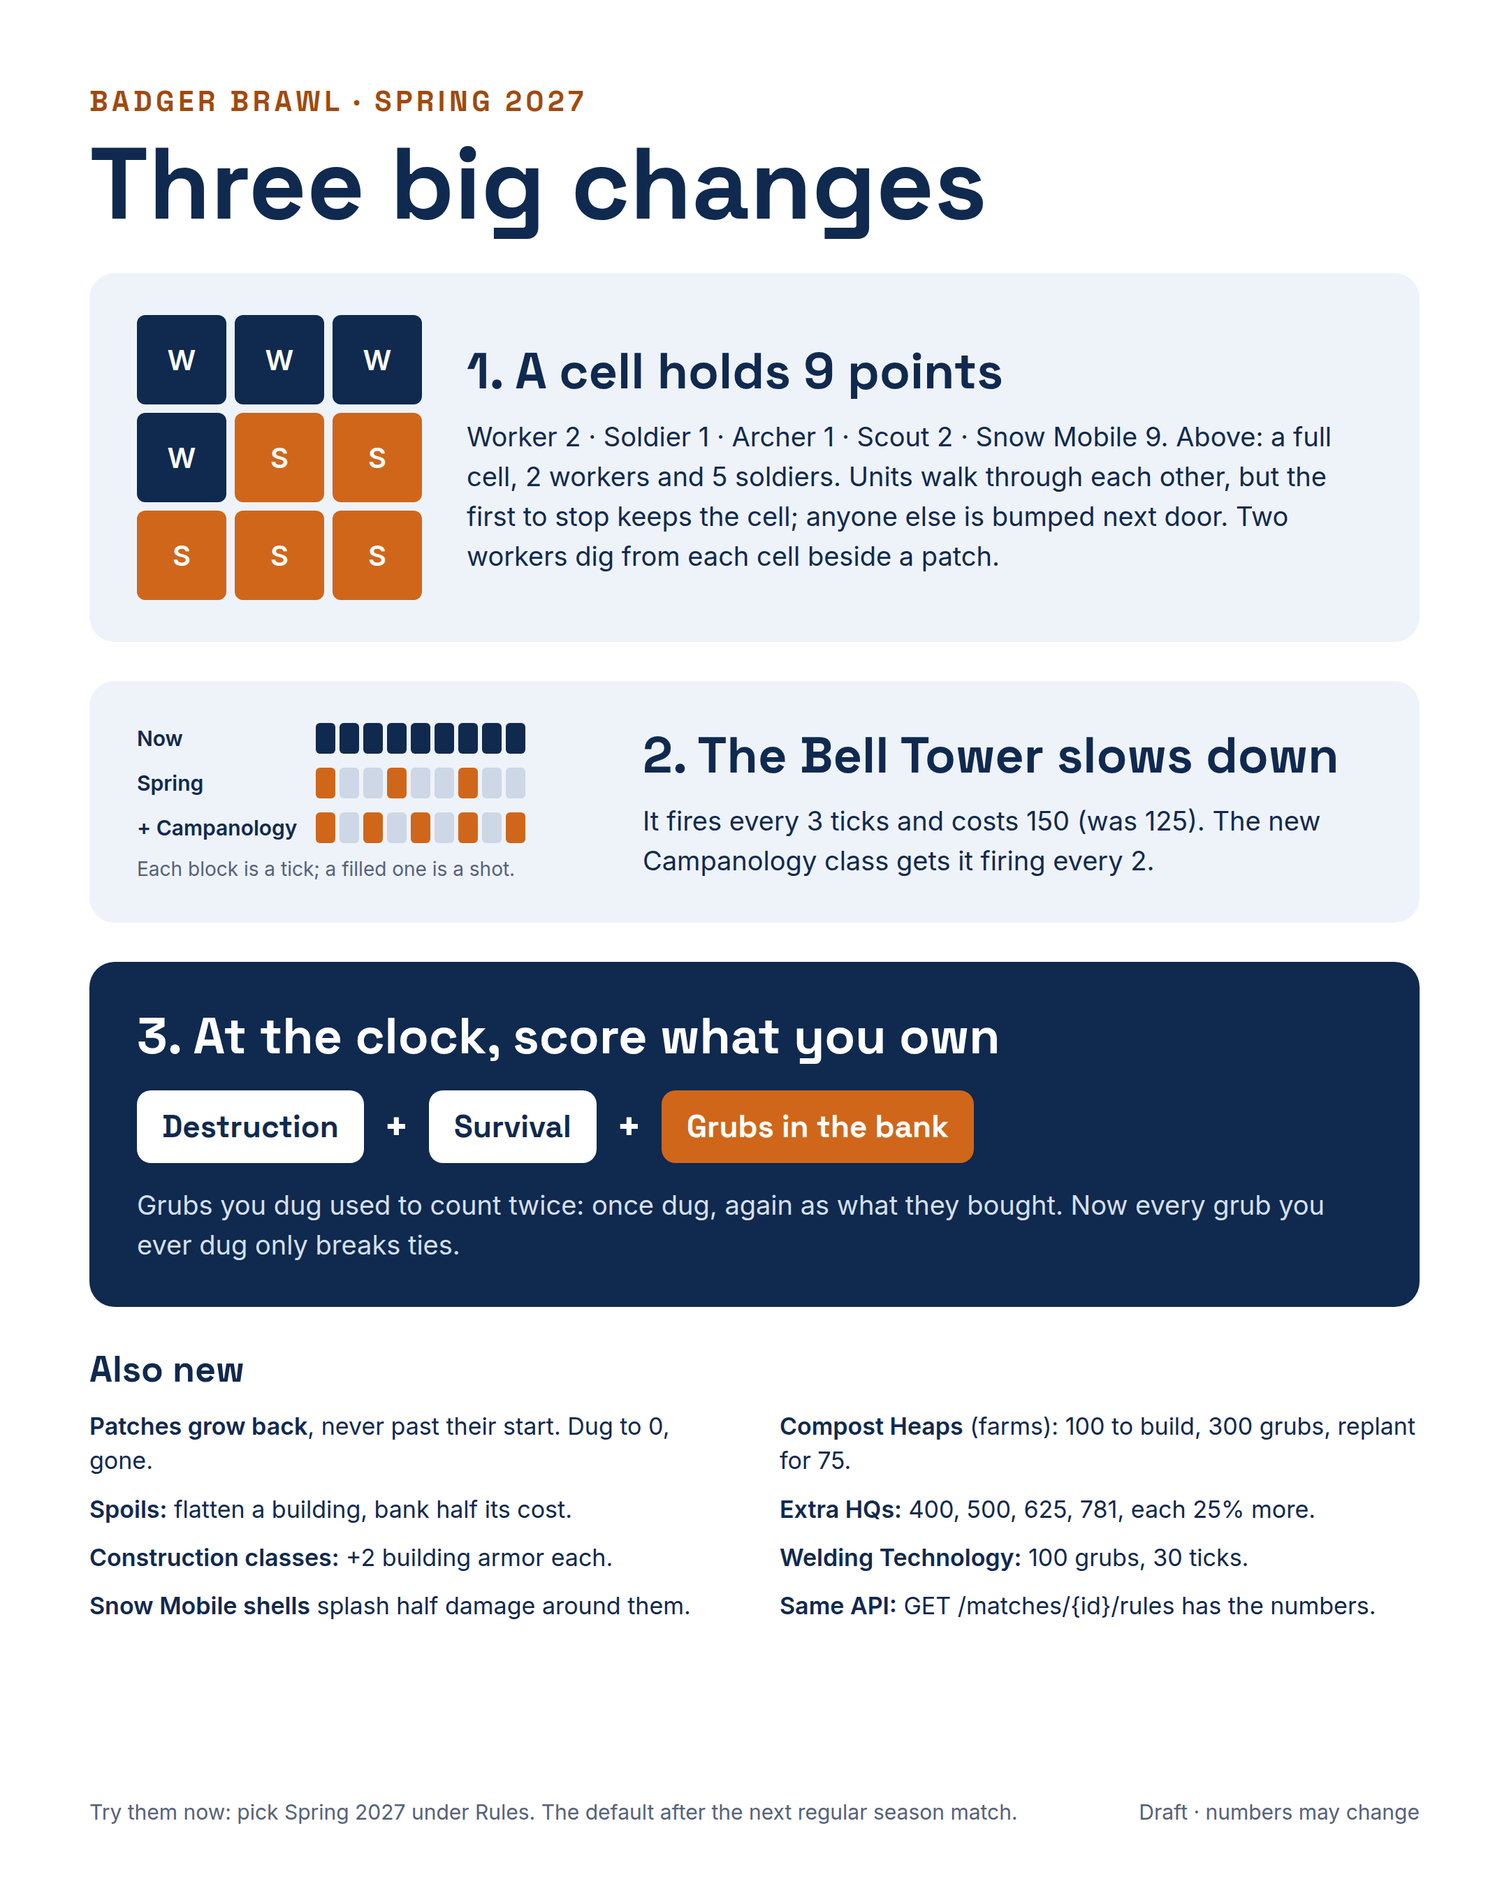
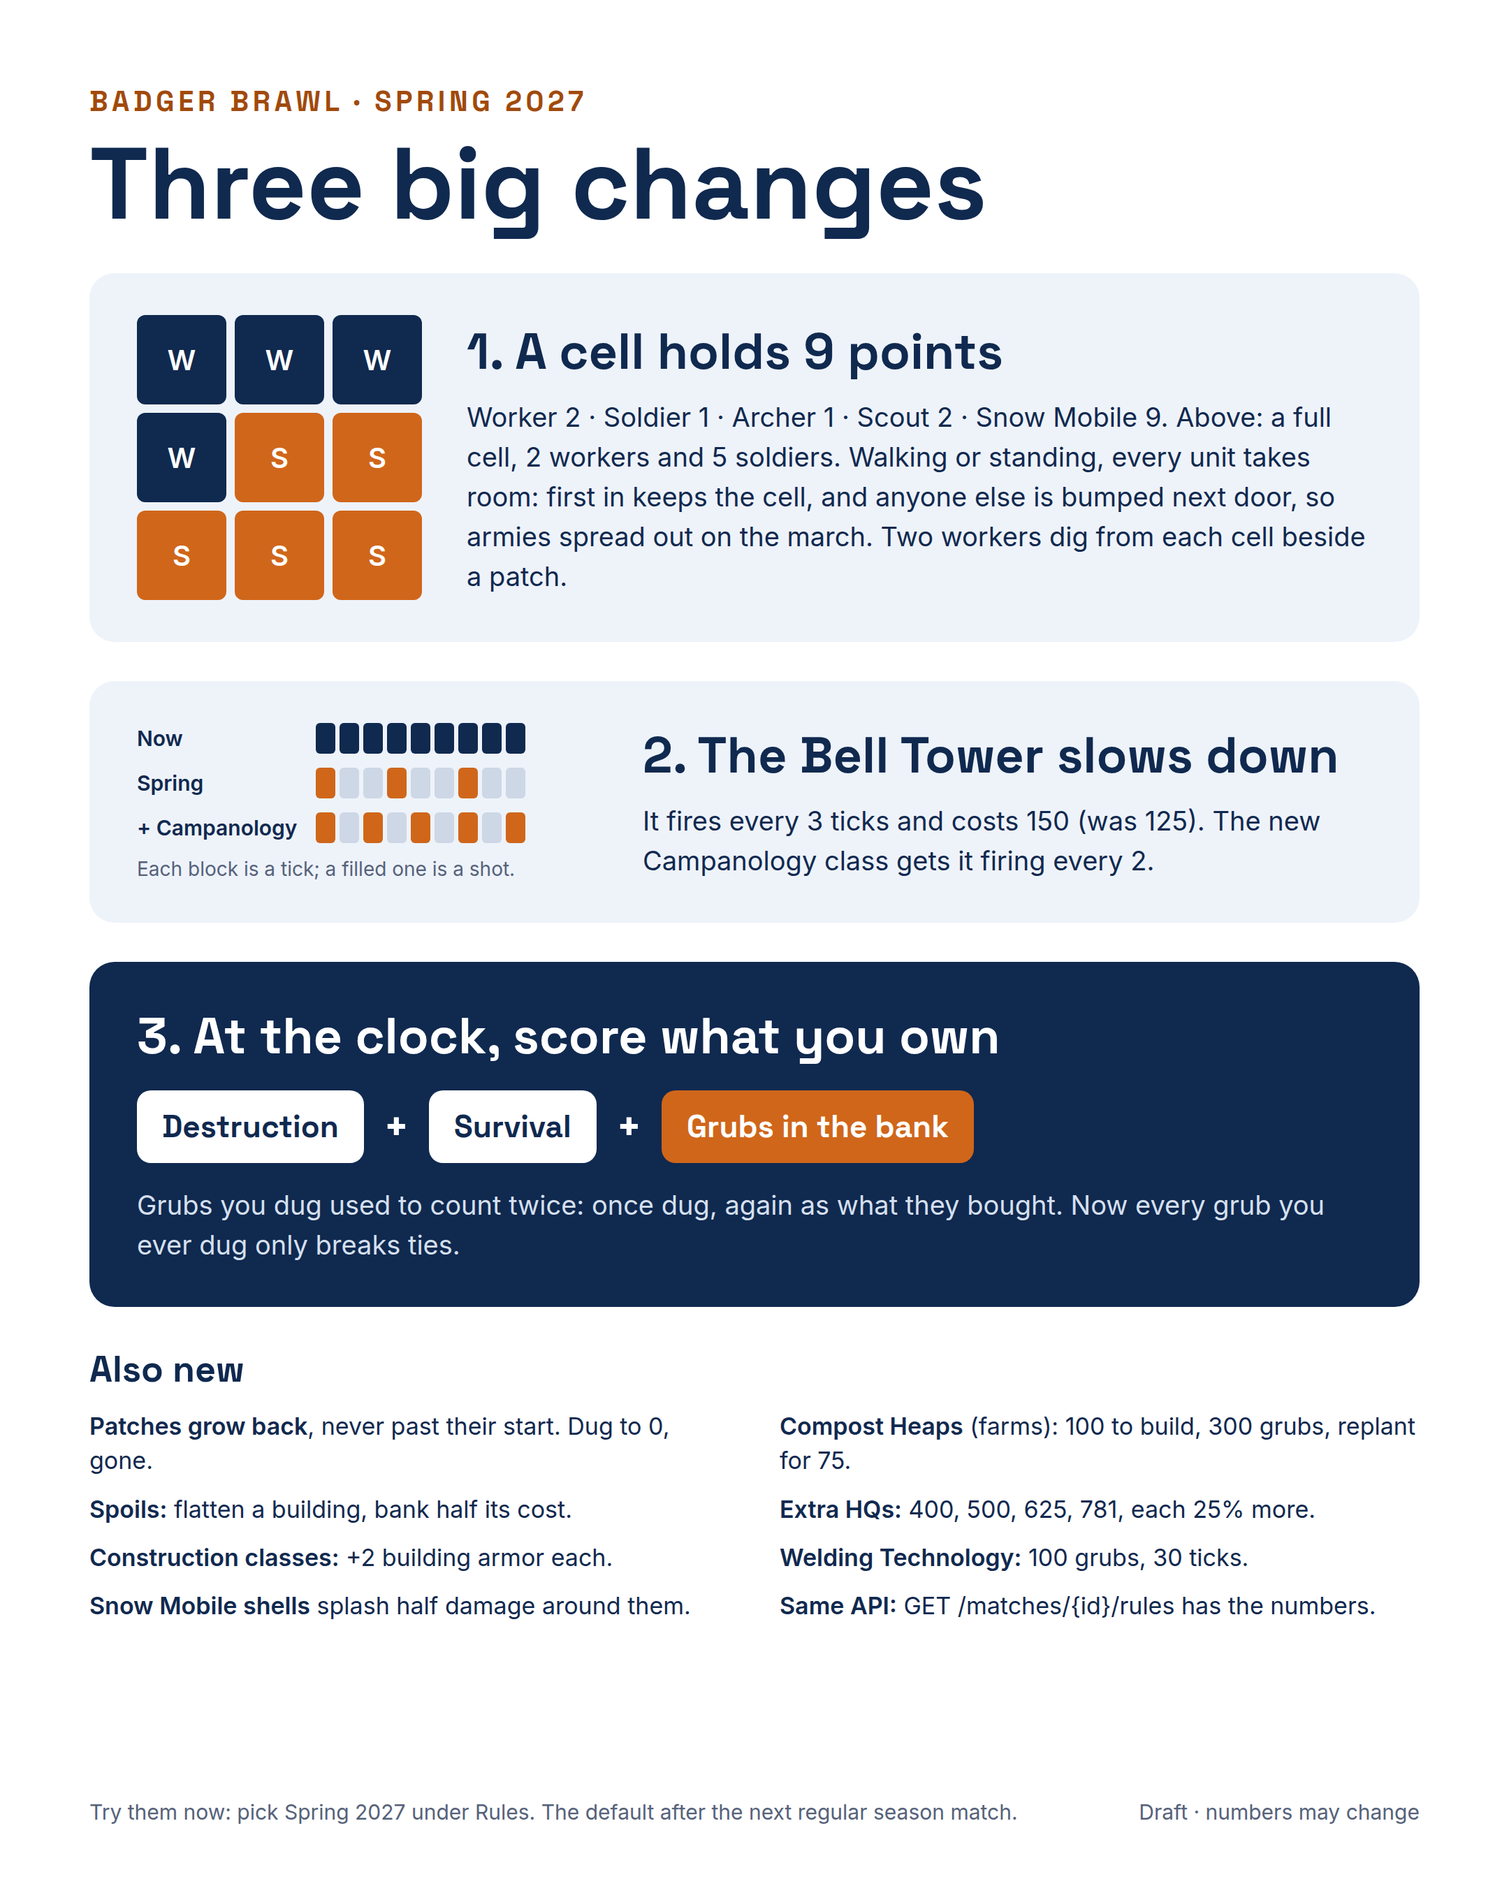
Spring rules: marching armies spread out; every unit takes room in the cell it ends each tick in
A walker that ends a tick in a full cell is bumped to the nearest cell with room, toward where it's going,
and keeps its route when its next step is still one step away. Found in a 16-Formics prod test, where
armies of 20-29 soldiers marched in one cell.

Claude-Session: https://claude.ai/code/session_01V8fdNFMnkyDNTFoKqQyD6L

Changed region(s): [[0.3102, 0.1556, 0.8995, 0.3111]]

diff --git a/docs/spring-rules/spring-rules-before-after.html b/docs/spring-rules/spring-rules-before-after.html
@@ -34,7 +34,7 @@ a{color:#10294f}a:hover{color:#0a1a33}
         <div style="font-weight: 600">Room in a cell</div><div style="color: #56627a">As many units as you like</div><div>9 points: Worker 2, Soldier 1, Archer 1, Scout 2, Snow Mobile 9</div>
       </div>
       <div style="display: grid; grid-template-columns: 220px minmax(0, 1fr) minmax(0, 1.5fr); column-gap: 28px; align-items: center; border-bottom: 1px solid #dfe6f1; font-size: 17px; line-height: 1.35">
-        <div style="font-weight: 600">Stopping</div><div style="color: #56627a">Stack anywhere</div><div>First in keeps the cell; latecomers are bumped next door</div>
+        <div style="font-weight: 600">Crowds</div><div style="color: #56627a">Stack anywhere, even on the march</div><div>First in keeps the cell; latecomers, marching armies too, are bumped next door</div>
       </div>
       <div style="display: grid; grid-template-columns: 220px minmax(0, 1fr) minmax(0, 1.5fr); column-gap: 28px; align-items: center; border-bottom: 1px solid #dfe6f1; font-size: 17px; line-height: 1.35">
         <div style="font-weight: 600">Digging</div><div style="color: #56627a">Any number on a patch</div><div>2 dig from each cell beside a patch; 2 more wait</div>

diff --git a/src/NetRts.Server/wwwroot/spring.js b/src/NetRts.Server/wwwroot/spring.js
@@ -24,8 +24,8 @@ function changes(c, s) {
   const farm = s.farm;
   return [
     ['Space', [
-      [`A cell holds ${s.cellCapacity} points`, `Each unit takes room while it stands in a cell: ${room}. Units still walk through each other.`],
-      ['First in keeps the cell', 'A unit that stops where there isn’t room is bumped to the nearest cell that has some. When two players’ units arrive together and don’t all fit, they take turns, one each.'],
+      [`A cell holds ${s.cellCapacity} points`, `Every unit takes room in the cell it’s in, walking or standing: ${room}.`],
+      ['First in keeps the cell', 'A unit that ends a tick where there isn’t room is bumped to the nearest cell that has some, so armies spread out on the march. When two players’ units arrive together and don’t all fit, they take turns, one each.'],
       [`${s.minersPerEdge} dig from each cell`, `${s.minersPerEdge} workers dig from each cell beside a patch, and others there wait their turn. A worker bumped away looks within sight for a free spot, and stops if there isn’t one.`],
     ]],
     [say('Ore', 'Grubs'), [

diff --git a/docs/spring-rules/spring-rules-tiles.html b/docs/spring-rules/spring-rules-tiles.html
@@ -26,7 +26,7 @@ a{color:#10294f}a:hover{color:#0a1a33}
     <div style="background: #eef3fa; border-radius: 14px; padding: 22px; display: flex; flex-direction: column; gap: 8px">
       <div style="font-family: 'Space Grotesk', sans-serif; font-weight: 700; font-size: 34px; color: #d0661a">02</div>
       <div style="font-family: 'Space Grotesk', sans-serif; font-weight: 700; font-size: 23px">First in keeps the cell</div>
-      <div style="font-size: 16px; line-height: 1.45">Units walk through each other. Stop where it's full and you're bumped to the nearest cell with room.</div>
+      <div style="font-size: 16px; line-height: 1.45">Walking or standing, every unit takes room. Latecomers to a full cell are bumped next door, so armies spread out.</div>
     </div>
     <div style="background: #eef3fa; border-radius: 14px; padding: 22px; display: flex; flex-direction: column; gap: 8px">
       <div style="font-family: 'Space Grotesk', sans-serif; font-weight: 700; font-size: 34px; color: #d0661a">03</div>

diff --git a/docs/spring-rules/spring-rules-big-three.html b/docs/spring-rules/spring-rules-big-three.html
@@ -31,7 +31,7 @@ a{color:#10294f}a:hover{color:#0a1a33}
     </div>
     <div style="display: flex; flex-direction: column; gap: 10px">
       <div style="font-family: 'Space Grotesk', sans-serif; font-weight: 700; font-size: 36px">1. A cell holds 9 points</div>
-      <div style="font-size: 19px; line-height: 1.5">Worker 2 · Soldier 1 · Archer 1 · Scout 2 · Snow Mobile 9. Above: a full cell, 2 workers and 5 soldiers. Units walk through each other, but the first to stop keeps the cell; anyone else is bumped next door. Two workers dig from each cell beside a patch.</div>
+      <div style="font-size: 19px; line-height: 1.5">Worker 2 · Soldier 1 · Archer 1 · Scout 2 · Snow Mobile 9. Above: a full cell, 2 workers and 5 soldiers. Walking or standing, every unit takes room: first in keeps the cell, and anyone else is bumped next door, so armies spread out on the march. Two workers dig from each cell beside a patch.</div>
     </div>
   </div>
 

diff --git a/src/NetRts.Engine/GameSimulation.Cells.cs b/src/NetRts.Engine/GameSimulation.Cells.cs
@@ -4,9 +4,10 @@ namespace NetRts.Engine;
 
 /// <summary>
 /// Cell limits (<see cref="RuleSet.CellCapacity"/>) and digging spots (<see cref="RuleSet.MinersPerEdge"/>).
-/// Units walk through each other; a unit that stops takes its <see cref="UnitStats.Occupancy"/> of its cell
-/// if there is room, and is bumped to the nearest cell with room if there isn't. Nothing here runs under
-/// rules without a cell limit.
+/// Every unit, walking or standing, takes its <see cref="UnitStats.Occupancy"/> of the cell it ends each tick
+/// in: one that moved takes a place there if there is room, and is bumped to the nearest cell with room if
+/// there isn't (a walker toward where it's going), so marching armies spread out. A unit that stays where it
+/// is keeps its place. Nothing here runs under rules without a cell limit.
 /// </summary>
 public sealed partial class GameSimulation
 {
@@ -60,7 +61,7 @@ public sealed partial class GameSimulation
     }
 
     /// <summary>
-    /// After everyone has moved: each unit standing still without a place takes one, or is bumped. Within a cell
+    /// After everyone has moved: each unit without a place (it moved, or was just placed) takes one, or is bumped. Within a cell
     /// the lowest id goes first; when players' units don't all fit, they take turns, starting one player further
     /// round the table each time that happens. The bumped are placed after every cell has seated its own.
     /// </summary>
@@ -72,7 +73,7 @@ public sealed partial class GameSimulation
         }
 
         var bumped = new List<UnitEntity>();
-        var arrivals = _units.Where(u => !u.Dead && u.SettledSeq == 0 && u.Path.Count == 0)
+        var arrivals = _units.Where(u => !u.Dead && u.SettledSeq == 0)
             .GroupBy(u => Index(u.Position))
             .OrderBy(g => g.Key);
         foreach (var cell in arrivals)
@@ -126,14 +127,30 @@ public sealed partial class GameSimulation
     /// <summary>Moves a unit that found no room to the nearest cell that has some, and lets it carry on from there.</summary>
     private void Bump(UnitEntity unit)
     {
-        if (NearestRoom(unit) is not { } cell)
+        var walking = unit.Path.Count > 0;
+        if (NearestRoom(unit, walking ? unit.Path[^1] : null) is not { } cell)
         {
             return; // nowhere near: it stays put without a place and tries again next tick
         }
 
         Place(unit, cell);
-        unit.ClearPath();
         Settle(unit);
+        if (walking)
+        {
+            // Sidestepped: keep the route if its next step is still one step away (or this is it), else plan again.
+            if (unit.Path[0] == cell)
+            {
+                unit.Path.RemoveAt(0);
+            }
+            else if (unit.Path[0].Chebyshev(cell) > 1)
+            {
+                unit.ClearPath();
+            }
+
+            return;
+        }
+
+        unit.ClearPath();
         if (unit.Order == OrderKind.Gather && unit.Carrying < Rules.WorkerCarryCapacity)
         {
             FindPlaceToDig(unit);
@@ -142,9 +159,10 @@ public sealed partial class GameSimulation
 
     /// <summary>
     /// The nearest cell (by steps over open ground, in a fixed order) with room for the unit; among the nearest,
-    /// one where it can get on with its order (dig, build, shoot its target) if there is one.
+    /// for a walker the one nearest <paramref name="toward"/> (where it's going), for anyone else one where it
+    /// can get on with its order (dig, build, shoot its target) if there is one.
     /// </summary>
-    private Point? NearestRoom(UnitEntity unit, int maxSteps = 8)
+    private Point? NearestRoom(UnitEntity unit, Point? toward, int maxSteps = 8)
     {
         var seen = new HashSet<Point> { unit.Position };
         var ring = new List<Point> { unit.Position };
@@ -169,7 +187,9 @@ public sealed partial class GameSimulation
             var open = next.Where(p => Room(p) >= unit.Stats.Occupancy).ToList();
             if (open.Count > 0)
             {
-                return open.FirstOrDefault(p => CanWorkFrom(unit, p), open[0]);
+                return toward is { } goal
+                    ? open.MinBy(p => (p.Chebyshev(goal), p.DistanceSquared(goal)))
+                    : open.FirstOrDefault(p => CanWorkFrom(unit, p), open[0]);
             }
 
             ring = next;

diff --git a/src/NetRts.Engine/GameRules.cs b/src/NetRts.Engine/GameRules.cs
@@ -385,7 +385,7 @@ public static class GameRules
                     siegeNote => "Siege units (ShotTicks > 0) lob shells at a tile: they land ShotTicks later and hit every enemy on that tile then, and every enemy on the 8 tiles around it for shellSplashPercent of the damage (before armor). They can't fire inside MinRange.",
                     TickLimitNote => "At the tick limit the highest total score wins; equal totals go to whoever gathered more grubs (economy), and only then is it a draw.",
                     ScoreNote => "Score: destruction (value of enemy assets destroyed) + survival (value of your living units and finished buildings) + bank (grubs you hold now). Economy (grubs ever gathered) is still reported, but only breaks ties.",
-                    SharedTilesNote => "Units walk through each other, but a cell holds cellCapacity points: a unit standing in it (for any reason) takes its occupancy. First in keeps the cell; a unit that stops where there isn't room is bumped to the nearest cell that has it. Ties between players take turns, starting one player further round each time. Buildings, resource deposits and rock block movement.",
+                    SharedTilesNote => "A cell holds cellCapacity points, and every unit, walking or standing, takes its occupancy of the cell it ends each tick in. A unit that stays put keeps its place; one that ends a tick where there isn't room is bumped to the nearest cell that has some (a walking one, toward where it's going), so armies spread out on the march. Ties between players take turns, starting one player further round each time. Buildings, resource deposits and rock block movement.",
                     _ => n,
                 }),
                 "Digging: at most minersPerEdge workers dig from one cell at once, shared by every patch or farm beside it; others there wait their turn (activity Waiting). A worker leaving to drop off gives up its spot. A worker bumped away from its patch looks within its vision for a cell with a free spot, and goes idle if there is none.",

diff --git a/tests/NetRts.Engine.Tests/CellTests.cs b/tests/NetRts.Engine.Tests/CellTests.cs
@@ -63,17 +63,20 @@ public class CellTests
     }
 
     [Fact]
-    public void Units_walk_through_a_full_cell()
+    public void A_marching_army_spreads_out_and_never_crowds_a_cell()
     {
         var sim = Spring();
-        Spawn(sim, 0, UnitType.Soldier, 9, 12, 12);
-        var scout = sim.SpawnUnit(0, UnitType.Scout, 12, 9);
+        var army = Enumerable.Range(0, 18).Select(i => sim.SpawnUnit(0, UnitType.Soldier, 9 + (i % 2), 9)).ToArray();
 
-        sim.SubmitOne(0, TestGames.Move(12, 15, scout)).AssertAccepted();
-        sim.Run(4);
+        sim.SubmitOne(0, TestGames.Move(16, 16, army)).AssertAccepted();
+        for (var tick = 0; tick < 20; tick++)
+        {
+            sim.Step();
+            Assert.Null(sim.CellProblem());
+            Assert.All(Units(sim).GroupBy(u => (u.X, u.Y)), g => Assert.True(g.Count() <= 9, $"tick {sim.Tick}: {g.Count()} soldiers on {g.Key}"));
+        }
 
-        Assert.Equal((12, 15), (sim.Find(scout)!.Value.X, sim.Find(scout)!.Value.Y));
-        Assert.Null(sim.CellProblem());
+        Assert.All(Units(sim), u => Assert.True(Math.Max(Math.Abs(u.X - 16), Math.Abs(u.Y - 16)) <= 2, $"soldier at ({u.X},{u.Y}) should be near the destination"));
     }
 
     [Fact]

diff --git a/src/NetRts.Engine/GameSimulation.Testing.cs b/src/NetRts.Engine/GameSimulation.Testing.cs
@@ -75,11 +75,16 @@ public sealed partial class GameSimulation
     internal int FarmGrubs(int farmId) => ((BuildingEntity)_entities[farmId]).Grubs;
 
     /// <summary>
-    /// What's wrong with the cell bookkeeping, or null: every cell's load must be what its standing units add up
-    /// to, within <see cref="RuleSet.CellCapacity"/>, and no cell may have more diggers than <see cref="RuleSet.MinersPerEdge"/>.
+    /// What's wrong with the cell bookkeeping, or null: every unit holds a place, every cell's load must be what
+    /// its units add up to, within <see cref="RuleSet.CellCapacity"/>, and no cell may have more diggers than <see cref="RuleSet.MinersPerEdge"/>.
     /// </summary>
     internal string? CellProblem()
     {
+        if (_units.FirstOrDefault(u => u.SettledSeq == 0) is { } loose)
+        {
+            return $"unit {loose.Id} at {loose.Position} holds no place";
+        }
+
         var load = new int[_cellLoad.Length];
         foreach (var unit in _units.Where(u => u.SettledSeq != 0))
         {

diff --git a/docs/bot-guide.md b/docs/bot-guide.md
@@ -399,7 +399,7 @@ plays either. Commands don't change; the new mechanics show up as extra fields, 
 
 | Field in the rules | Spring draft | What it does |
 |---|---|---|
-| `cellCapacity`, each unit's `occupancy` | 9; Worker 2, Soldier 1, Archer 1, Scout 2, Trebuchet 9 | Units walk through each other, but a unit standing in a cell (idle, digging, building, shooting, waiting) takes its occupancy of the cell's 9 points. First in keeps the cell; a unit that stops where there isn't room is bumped to the nearest cell that has some. When players' units arrive together and don't all fit, they take turns, one per player, starting one player further round each time that happens. New units appear in the nearest cell with room. |
+| `cellCapacity`, each unit's `occupancy` | 9; Worker 2, Soldier 1, Archer 1, Scout 2, Trebuchet 9 | Every unit, walking or standing, takes its occupancy of the 9 points of the cell it ends each tick in. First in keeps the cell; a unit that ends a tick where there isn't room is bumped to the nearest cell that has some (a walking one, toward where it's going), so armies spread out on the march. (A scout, which moves 2 cells a tick, can dash across a full cell without stopping in it.) When players' units arrive together and don't all fit, they take turns, one per player, starting one player further round each time that happens. New units appear in the nearest cell with room. |
 | `minersPerEdge` | 2 | At most 2 workers dig from one cell beside a patch or farm at once (the cell's limit, shared by every patch it touches); others there wait (`activity: "Waiting"`). A worker leaving to drop off gives up its spot at once. Workers sent to a patch pick a cell with a free spot. A worker bumped from beside its patch looks within its vision for a free spot, and goes idle (with a `CommandFailed` event) if there is none. |
 | `farm` (`grubs`, `replantCost`, `gatherPerTick`), building `Farm` | 300, 75, 1; Farm costs 100 | A finished farm holds `farm.grubs`, dug like a patch from the cells around it at `gatherPerTick` (+ Harvesting). Its `grubs` field in state says how many are left. Dug out, it stays standing and its workers move on (event `FarmEmpty`); **Gather** on your own empty farm replants it for `replantCost` when the worker gets there (event `FarmReplanted`). You can't dig an enemy's farm. |
 | GuardTower `attackCooldown`, upgrade `RapidFire` | 3 (cost 150); RapidFire 150 | Towers fire every 3 ticks; RapidFire brings it to 2. |

diff --git a/docs/proposals/spring-rules.md b/docs/proposals/spring-rules.md
@@ -96,6 +96,13 @@ patches.
     (`NetRts:Rules=spring-draft`) and classic becomes the opt-out.
 24. **No badges** (answers H): spectators just see more units, more spread out.
 
+## Round 5 (2026-11-27)
+
+25. **Marching armies spread out** (replaces decision 3 and 20's "walking units hold none"): every unit, walking or
+    standing, holds its share of the cell it ends each tick in. A walker that ends a tick in a full cell is
+    bumped to the nearest cell with room, toward where it's going, and keeps its route when it can. Found in a
+    16-Formics prod test, where armies of 20-29 soldiers marched in one cell.
+
 ## Open questions (round 2)
 
 Recommendations in italics.
